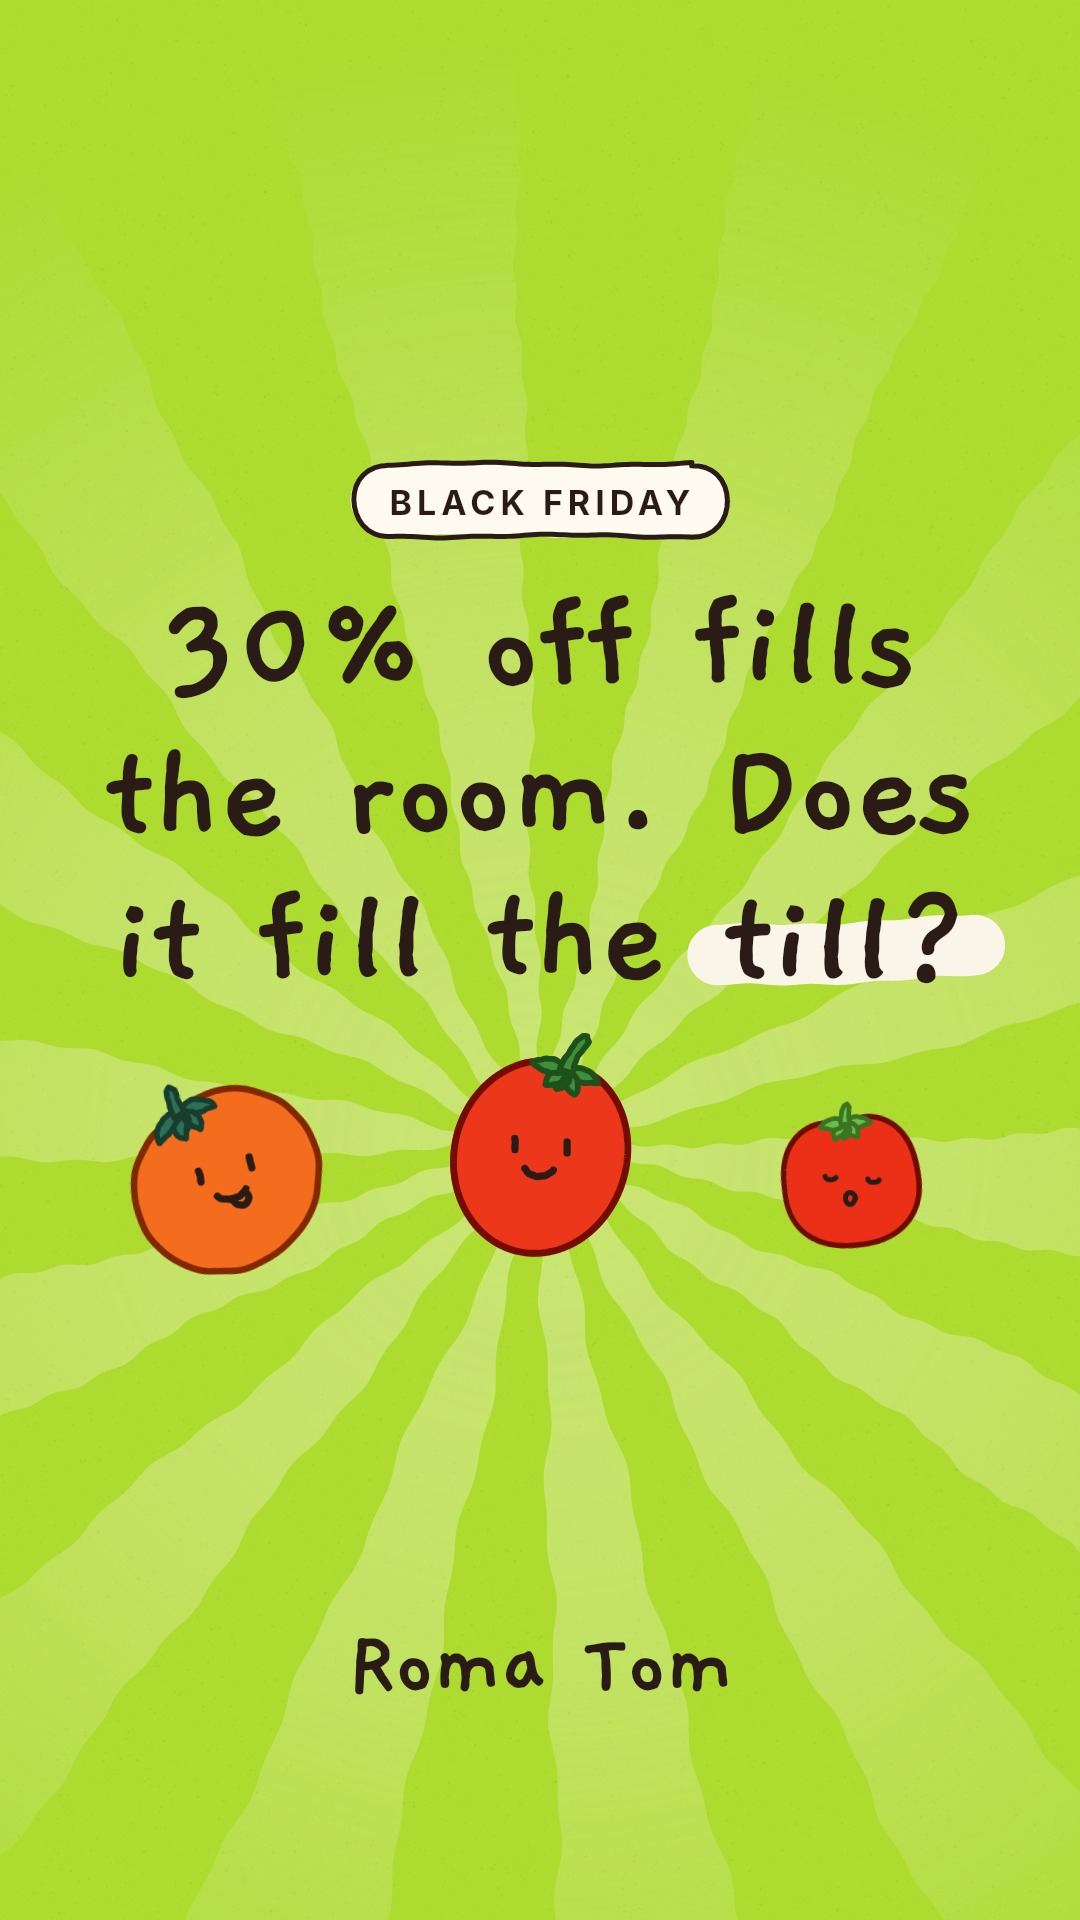
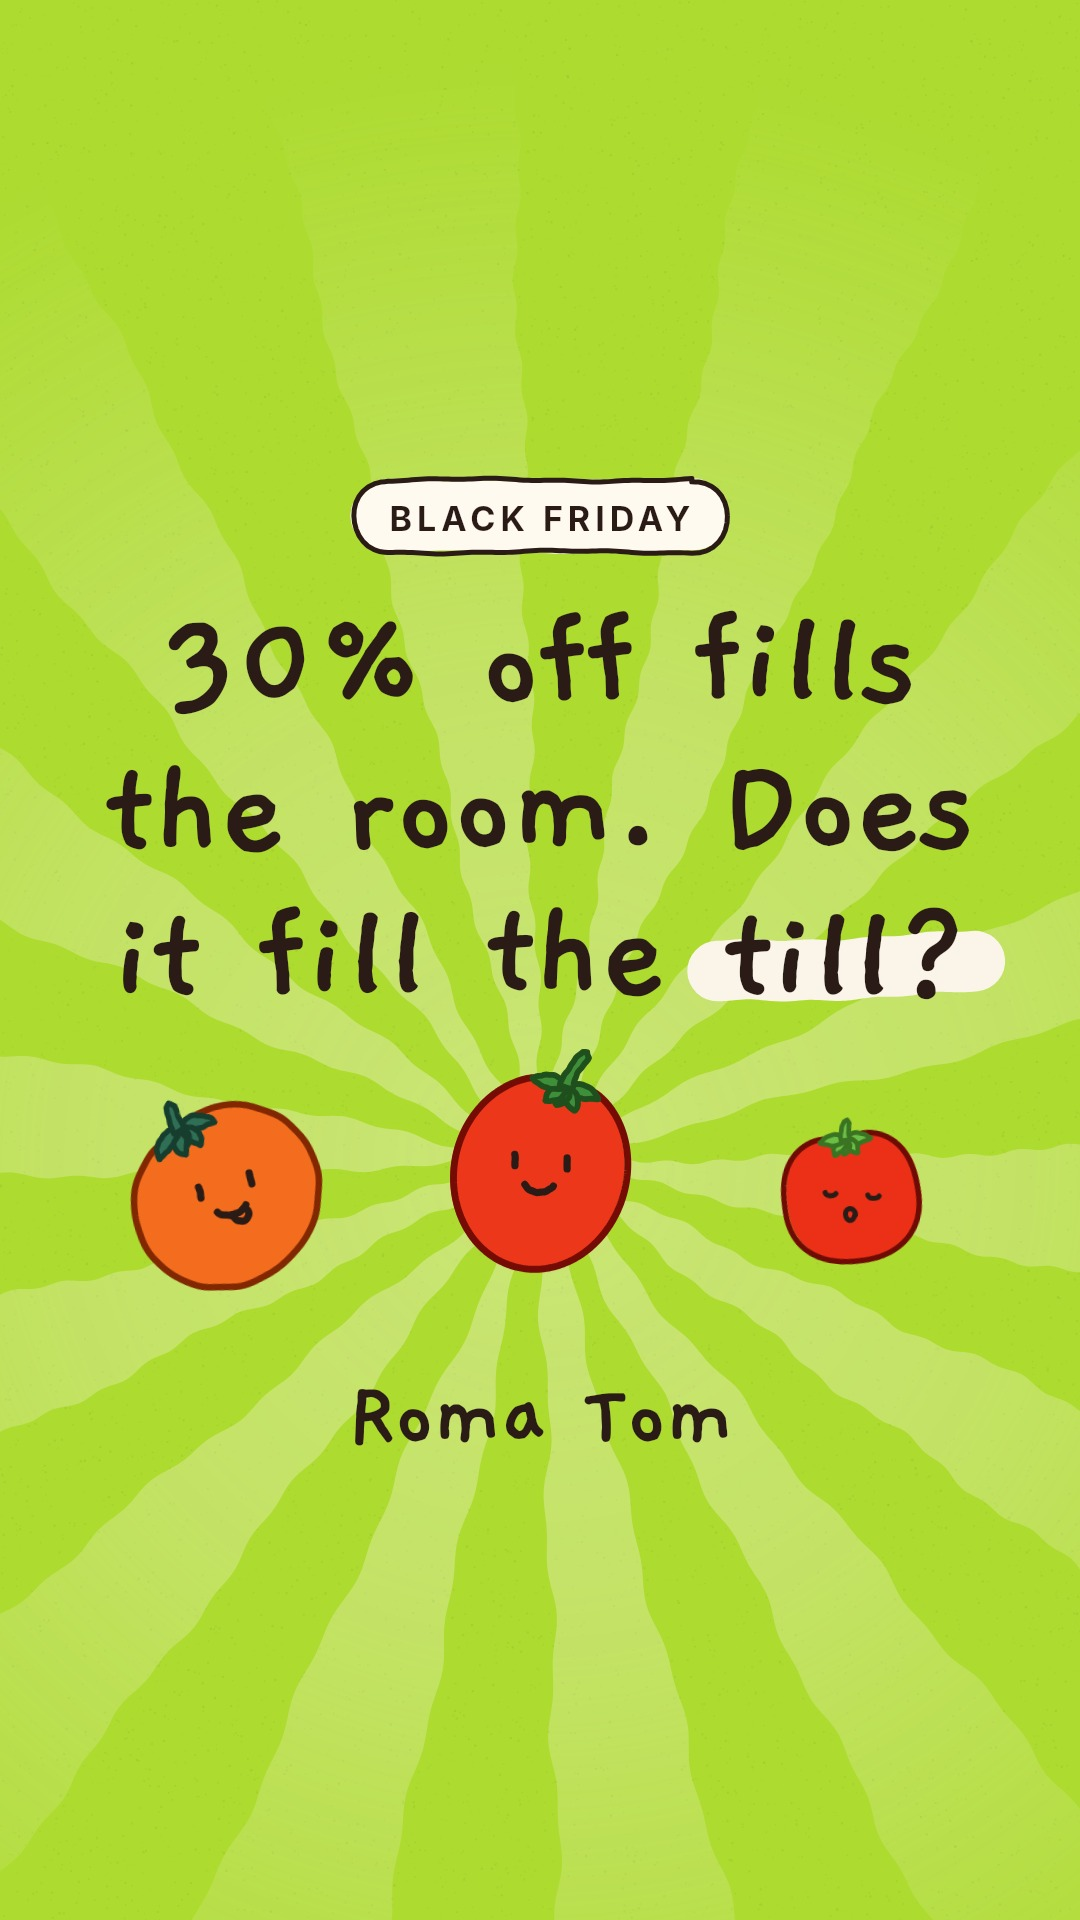
Center cover images exactly in the frame
Lay the kicker, question, focal point and Roma Tom name out on a clear
layer, measure its drawn pixels, and shift the whole group (and its
sunrise) so it sits at the exact vertical middle. Re-render all covers.

Claude-Session: https://claude.ai/code/session_01Geu1xiuNC95HtfmqdtwFyL

diff --git a/scripts/cover.js b/scripts/cover.js
@@ -4,9 +4,11 @@
 //   node scripts/cover.js videos/<slug>/storyboard.json            → videos/<slug>/cover.jpg
 //   node scripts/cover.js videos/<slug>/storyboard.json --guides   → also out/<slug>-cover-guides.png
 //
-// The image is 1080 × 1920, but everything that matters sits inside the center square
-// (y 420 to 1500): Instagram and TikTok grids crop covers to about 3:4, feeds and some
-// previews to 4:5 or 1:1, and Facebook shows the whole frame. --guides draws those crops.
+// The image is 1080 × 1920. The kicker, question and focal point are laid out to fit the
+// center square (y 420 to 1500); then the whole group, the Roma Tom name included, is moved so
+// its drawn pixels sit exactly in the vertical middle of the frame. Instagram and TikTok grids
+// crop covers to about 3:4, feeds and some previews to 4:5 or 1:1, and Facebook shows the
+// whole frame. --guides draws those crops.
 //
 // The text comes from the first hook scene. The focal point under it ("hero") varies so a feed
 // of covers doesn't repeat:
@@ -90,23 +92,24 @@ function pickHero(board, o, slug) {
   return { kind, ...options[kind] };
 }
 
-// Draw the focal point into the box from y0 to y1 (inside the square).
+// Draw the focal point into the box from y0 to y1 (inside the square). Returns where its
+// sunrise goes, for the caller to draw behind everything once the layout is final.
 function drawHero(ctx, theme, hero, y0, y1) {
   const room = y1 - y0;
   // A tomato `s` wide reaches about 0.38 s above its center (stem) and 0.36 s below (body).
   if (hero.kind === 'tomato' || hero.kind === 'host') {
     const s = Math.max(300, Math.min(640, room / 0.74));
     const cy = y0 + 0.38 * s;
-    rays(ctx, theme, { cx: W / 2, cy, spin: -Math.PI / 2 + 0.2, reach: 1100 });
     tomato(ctx, hero.kind === 'host' ? HOST : hero.name, W / 2, cy, s);
+    return { cx: W / 2, cy, spin: -Math.PI / 2 + 0.2, reach: 1100 };
   } else if (hero.kind === 'crowd') {
     const s = Math.max(260, Math.min(330, room / 0.74));
     const cy = y0 + 0.38 * s;
-    rays(ctx, theme, { cx: W / 2, cy, spin: -Math.PI / 2 + 0.2, reach: 1100 });
     hero.names.forEach((n, i) => {
       const side = i === 0 ? 0 : i === 1 ? -1 : 1;
       tomato(ctx, n, W / 2 + side * 300, cy + Math.abs(side) * 24, side ? s * 0.9 : s, { angle: side * 0.12 });
     });
+    return { cx: W / 2, cy, spin: -Math.PI / 2 + 0.2, reach: 1100 };
   } else if (hero.kind === 'number') {
     // The circle reaches about 0.62 × size above and below the number's middle; the label sits
     // under the circle. Shrink the number until all of it fits the room.
@@ -114,12 +117,30 @@ function drawHero(ctx, theme, hero, y0, y1) {
     let size = 260;
     while (size > 100 && (measure(hero.number, { size }) > 760 || size * 1.3 + labelH > room)) size -= 10;
     const cy = y0 + (room - labelH) / 2;
-    rays(ctx, theme, { cx: W / 2, cy, spin: 0.3, reach: 1000 });
     const w = measure(hero.number, { size });
     text(ctx, hero.number, W / 2, cy + size * 0.32, { size, align: 'center', color: theme.accent });
     loop(ctx, W / 2, cy, w / 2 + 50, size * 0.62, 1, theme.accent, 77, 9);
     if (hero.label) text(ctx, hero.label, W / 2, cy + size * 0.65 + 70, { size: 64, align: 'center' });
+    return { cx: W / 2, cy, spin: 0.3, reach: 1000 };
   }
+  return null;
+}
+
+// The rows a layer's drawn (non-transparent) pixels span, as { top, bottom }.
+function inkRows(canvas) {
+  const { data } = canvas.getContext('2d').getImageData(0, 0, W, H);
+  let top = -1, bottom = -1;
+  for (let y = 0; y < H; y++) {
+    const row = y * W * 4;
+    for (let x = 0; x < W; x++) {
+      if (data[row + x * 4 + 3] > 24) {
+        if (top < 0) top = y;
+        bottom = y;
+        break;
+      }
+    }
+  }
+  return top < 0 ? { top: H / 2, bottom: H / 2 } : { top, bottom: bottom + 1 };
 }
 
 function renderCover(board, slug = '') {
@@ -127,11 +148,10 @@ function renderCover(board, slug = '') {
   const o = { ...hook, ...(board.cover || {}) };
   const theme = THEMES[o.background || [].concat(board.background || 'paper')[0]];
   const hero = pickHero(board, o, slug);
-  const { canvas, ctx } = frame();
   pen.setBoil(0);
-  background(ctx, theme);
 
-  // Kicker, then the question, then the focal point in whatever room is left in the square.
+  // Lay out the kicker, the question and the focal point on a clear layer first.
+  const { canvas: layer, ctx: lc } = frame();
   const kickerY = SQUARE.top + 80;
   const top = kickerY + 70;
   const alone = hero.kind === 'headline';
@@ -140,22 +160,31 @@ function renderCover(board, slug = '') {
     : fitHeadline(theme, o.headline || '', 520);
   const { ctx: probe } = frame();
   const height = headline(probe, theme, o.headline || '', { y: 0, size, maxW: 900 });
-  // On its own, the question sits in the middle of the square's remaining space.
   const headTop = alone ? top + (SQUARE.bottom - 40 - top - height) / 2 : top;
-  if (alone) rays(ctx, theme, { cx: W / 2, cy: SQUARE.bottom + 200, spin: -Math.PI / 2, reach: 1300 });
-  else drawHero(ctx, theme, hero, headTop + height + 10, SQUARE.bottom - 20);
-  if (o.kicker) kicker(ctx, o.kicker, W / 2, kickerY);
-  headline(ctx, theme, o.headline || '', { y: headTop, size, maxW: 900, seed: 9 });
+  const sun = alone
+    ? { cx: W / 2, cy: SQUARE.bottom + 200, spin: -Math.PI / 2, reach: 1300 }
+    : drawHero(lc, theme, hero, headTop + height + 10, SQUARE.bottom - 20);
+  if (o.kicker) kicker(lc, o.kicker, W / 2, kickerY);
+  headline(lc, theme, o.headline || '', { y: headTop, size, maxW: 900, seed: 9 });
 
-  // The name, below the square: crops hide it, but full-frame views (Facebook) show it.
-  ctx.save();
-  ctx.font = '700 96px Gaegu';
-  ctx.letterSpacing = '-2px';
-  ctx.fillStyle = C.ink;
-  ctx.textAlign = 'center';
-  ctx.fillText(HOST, W / 2, SQUARE.bottom + 190);
-  ctx.letterSpacing = '0px';
-  ctx.restore();
+  // The name, a little under the rest, as part of the same group.
+  const above = inkRows(layer);
+  lc.save();
+  lc.font = '700 96px Gaegu';
+  lc.letterSpacing = '-2px';
+  lc.fillStyle = C.ink;
+  lc.textAlign = 'center';
+  lc.fillText(HOST, W / 2, above.bottom + 150);
+  lc.letterSpacing = '0px';
+  lc.restore();
+
+  // Then move the whole group so its drawn pixels sit exactly in the middle of the frame.
+  const ink = inkRows(layer);
+  const dy = Math.round(H / 2 - (ink.top + ink.bottom) / 2);
+  const { canvas, ctx } = frame();
+  background(ctx, theme);
+  if (sun) rays(ctx, theme, { ...sun, cy: sun.cy + dy });
+  ctx.drawImage(layer, 0, dy);
   return { canvas, hero: hero.kind };
 }
 
